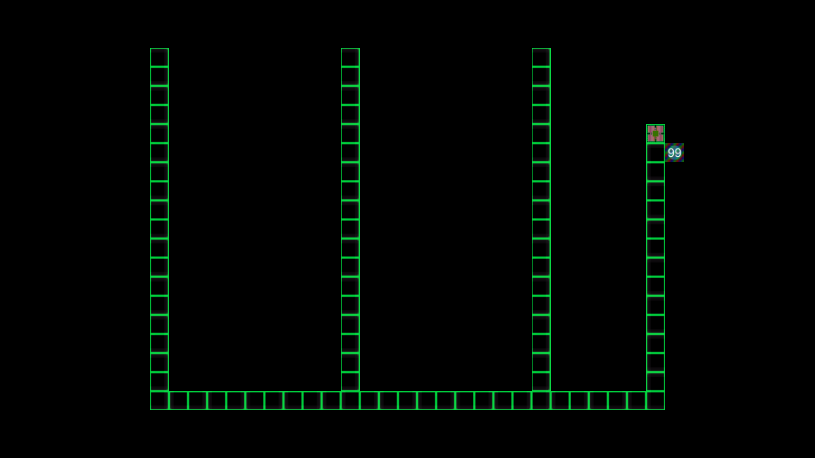
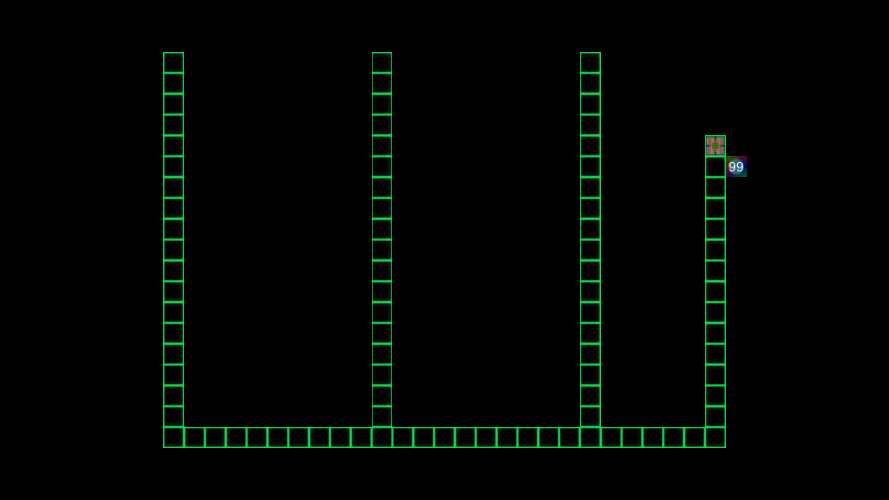
new effect: targetMouse.  new tower: Mouse Tower.  Fixed nullReferenceExceptions in deckEditor that looked bad but didnt really do anything.  Fixed adding premadeTowers to level definitions from inspector.

diff --git a/Assets/Scripts/Effects/effectsTargeting.cs b/Assets/Scripts/Effects/effectsTargeting.cs
@@ -221,6 +221,19 @@ public class EffectTargetHealth : BaseEffectTowerTargeting
     }
 }
 
+//tower targets enemies near the mouse.  Range is how far away FROM THE MOUSE to search for targets.
+public class EffectTargetMouse : BaseEffectTowerTargeting
+{
+    [Hide] public override string Name { get { return "Target: near mouse"; } } //returns name and strength
+    [Show] public override string XMLName { get { return "targetMouse"; } } //name used to refer to this effect in XML
+
+    public override List<GameObject> findTargets(Vector2 towerPosition, float towerRange)
+    {
+        Vector2 mouseWorldPosition = Camera.main.ScreenToWorldPoint(Input.mousePosition);
+        return EnemyManagerScript.instance.enemiesInRange(mouseWorldPosition, towerRange, 1);
+    }
+}
+
 //targets highest Speed
 public class EffectTargetSpeed : BaseEffectTowerTargeting
 {

diff --git a/Assets/Scripts/Effects/EffectTypeManagerScript.cs b/Assets/Scripts/Effects/EffectTypeManagerScript.cs
@@ -86,6 +86,7 @@ public class EffectTypeManagerScript : BaseBehaviour
             case "targetBurst":               ie = new EffectTargetBurst(); break;
             case "targetClosest":             ie = new EffectTargetClosest(); break;
             case "targetHealth":              ie = new EffectTargetHealth(); break;
+            case "targetMouse":               ie = new EffectTargetMouse(); break;
             case "targetMultishot":           ie = new EffectTargetMultishot(); break;
             case "targetOrthogonal":          ie = new EffectTargetOrthogonal(); break;
             case "targetRandom":              ie = new EffectTargetRandom(); break;

diff --git a/Assets/Scripts/Levels/LevelManagerScript.cs b/Assets/Scripts/Levels/LevelManagerScript.cs
@@ -58,7 +58,17 @@ public class PremadeTower
     [XmlAttribute] public float x; //x to spawn at
     [XmlAttribute] public float y; //y to spawn at
 
-    public override string ToString() { return name + "(" + upgrades.Count + " upgrades)"; }
+    public override string ToString()
+    {
+        if ( (name == null) || (upgrades == null) )
+        {
+            return "null";
+        }
+        else
+        {
+            return name + "(" + upgrades.Count + " upgrades)";
+        }
+    }
 };
 
 /// <summary>
